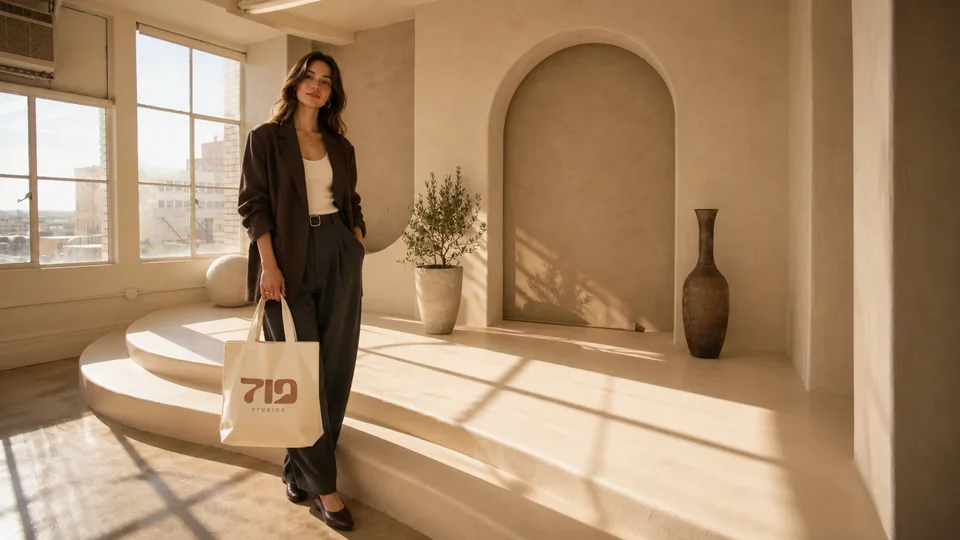
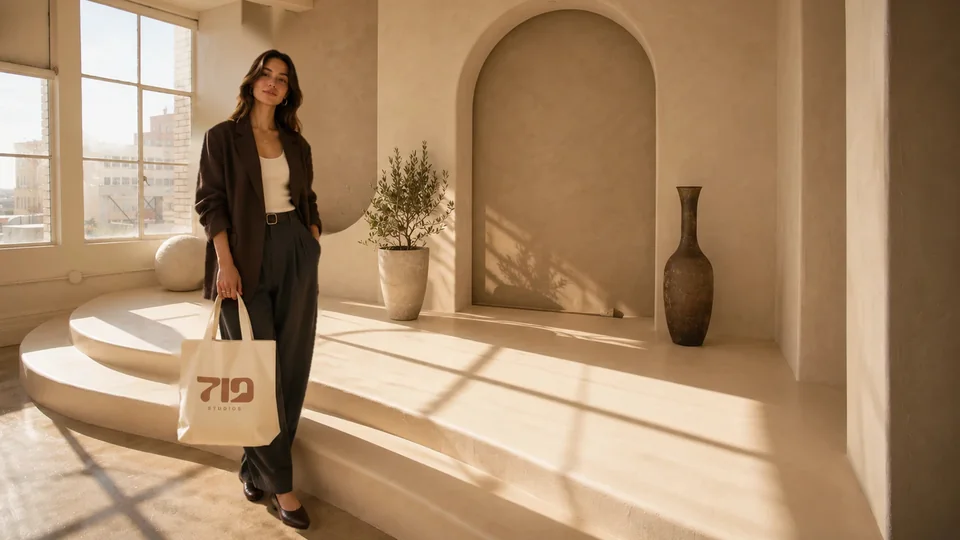
719 Studios: shorter model and tighter crop on the tote slide; page ends on the sunrise
The tote photo: the model is about four inches shorter and the frame is cropped in past the air conditioner.
The ending: a wider gap, then the closing line on a night band with the sunrise behind it, in place of the footer game.

diff --git a/work/719-studios/index.html b/work/719-studios/index.html
@@ -7,7 +7,7 @@
 <title>719 Studios — JCG Studio</title>
 <meta name="description" content="Three production studios in downtown Los Angeles: designed in 3D, built, branded and run for five years.">
 <meta name="theme-color" content="#E9E0D1">
-<link rel="stylesheet" href="../../assets/css/footer-game.css">
+<link rel="stylesheet" href="../../assets/css/dawn.css?v=20261020c">
 <script>document.documentElement.classList.add('js'); if (/[?&]embed\b/.test(location.search)) document.documentElement.classList.add('is-embed');</script>
 <style>
   @font-face { font-family: 'Archivo'; src: url('../../assets/fonts/Archivo-VF.woff2') format('woff2'); font-weight: 400 700; font-stretch: 100% 125%; font-display: swap; }
@@ -38,7 +38,7 @@
   .sr-only { position: absolute !important; width: 1px; height: 1px; padding: 0; margin: -1px; overflow: hidden; clip: rect(0 0 0 0); white-space: nowrap; border: 0; }
   .flap { display: inline-flex; } .flap-ch { position: relative; display: inline-block; width: 1ch; text-align: center; } .flap-ch.is-flip { animation: flap 70ms steps(2, end); }
   .flap-ch.is-flip::after { content: ""; position: absolute; left: 0; right: 0; top: 50%; height: 1px; background: currentColor; opacity: .35; } @keyframes flap { 0% { transform: scaleY(.55); } 100% { transform: none; } }
-  main { padding: 0 max(var(--pad), env(safe-area-inset-right)) 0 max(var(--pad), env(safe-area-inset-left)); }
+  main { padding: 0 max(var(--pad), env(safe-area-inset-right)) clamp(88px, 13vw, 200px) max(var(--pad), env(safe-area-inset-left)); }
   /* the opening: the name as large as the page allows, then the sentence beside the spec panel */
   .open { padding: clamp(28px, 5vw, 76px) 0 clamp(24px, 3vw, 44px); }
   .open h1 { margin: 10px 0 clamp(22px, 3vw, 44px); font: 560 clamp(52px, 12.4vw, 200px)/.9 'Archivo', sans-serif; font-stretch: 118%; letter-spacing: -.045em; }
@@ -53,12 +53,13 @@
   .js [data-reveal] { opacity: 0; transform: translateY(14px); transition: opacity .6s ease, transform .7s cubic-bezier(.2, .7, .2, 1); } .js [data-reveal].in-view { opacity: 1; transform: none; }
   .fine { max-width: 96ch; margin-top: 14px; color: var(--dim); text-transform: none; letter-spacing: .02em; line-height: 1.5; }
   .big { font: 560 clamp(36px, 5.9vw, 96px)/.98 'Archivo', sans-serif; font-stretch: 118%; letter-spacing: -.04em; text-wrap: balance; }
-  .end { display: flex; flex-wrap: wrap; align-items: flex-end; justify-content: space-between; gap: 24px; padding: clamp(56px, 9vw, 130px) 0 clamp(50px, 8vw, 110px); }
-  footer { --bg: #0b0c0e; --ink: #e6e9ed; --dim: #8a919b; --line: rgba(230, 233, 237, .15); --void: var(--bg); --chrome: var(--ink); --chrome-3: var(--dim); --line-strong: rgba(230, 233, 237, .3); --edge: var(--pad); background: var(--bg); color: var(--dim); color-scheme: dark; }
-  .foot-row { display: flex; flex-wrap: wrap; align-items: center; justify-content: space-between; gap: 8px 24px; padding: 16px var(--pad); } footer a { color: var(--ink); } footer a:hover { color: var(--signal); }
+  /* the ending is night: the closing line, the sun rising behind it (dawn.css sets the band's height and padding), then the footer row */
+  .end-in { display: flex; flex-wrap: wrap; align-items: flex-end; justify-content: space-between; gap: 24px; padding: 0 max(var(--pad), env(safe-area-inset-right)) 0 max(var(--pad), env(safe-area-inset-left)); }
+  .end, footer { --bg: #0b0c0e; --ink: #e6e9ed; --dim: #8a919b; --line: rgba(230, 233, 237, .15); --void: var(--bg); --chrome: var(--ink); --chrome-3: var(--dim); --line-strong: rgba(230, 233, 237, .3); --edge: var(--pad); background: var(--bg); color: var(--dim); color-scheme: dark; }
+  .end { color: var(--ink); }
+  .foot-row { display: flex; flex-wrap: wrap; align-items: center; justify-content: space-between; gap: 8px 24px; padding: 16px var(--pad) calc(16px + env(safe-area-inset-bottom)); } footer a { color: var(--ink); } footer a:hover { color: var(--signal); }
   /* inside the home page's case-study panel (?embed) the page shows without its own bar, closing line and footer */
   .is-embed .top, .is-embed .end, .is-embed footer { display: none; }
-  .foot-game canvas { padding-bottom: env(safe-area-inset-bottom); }
   @media (min-width: 800px) { .links { display: flex; } .open-row { grid-template-columns: minmax(0, 1fr) minmax(320px, 38%); } .c6 { grid-column: span 6; } .c4 { grid-column: span 4; } }
   @media (prefers-reduced-motion: reduce) { .js [data-reveal] { opacity: 1; transform: none; transition: none; } .btn.ticks::before { transition: none; } }
 </style>
@@ -84,32 +85,33 @@
     </div>
   </section>
   <div class="g">
-    <figure class="cell c12" data-reveal role="img" aria-label="The 719 Studios logo set inside the orange circle of the Etherea room"><img src="../../assets/img/work/719/deck/figma/04-etherea-1920.webp?v=20261116j" srcset="../../assets/img/work/719/deck/figma/04-etherea-960.webp?v=20261116j 960w, ../../assets/img/work/719/deck/figma/04-etherea-1920.webp?v=20261116j 1920w" sizes="100vw" width="1920" height="1080" alt="" decoding="async"></figure>
-    <figure class="cell c12" data-reveal role="img" aria-label="The five brand colours with their names and values: Umber, Clay, Blush, Sand and Birch"><img src="../../assets/img/work/719/deck/figma/02-palette-1920.webp?v=20261116j" srcset="../../assets/img/work/719/deck/figma/02-palette-960.webp?v=20261116j 960w, ../../assets/img/work/719/deck/figma/02-palette-1920.webp?v=20261116j 1920w" sizes="100vw" width="1920" height="1080" alt="" loading="lazy" decoding="async"></figure>
-    <figure class="cell c6" data-reveal role="img" aria-label="The 719 Studios logo in clay on a pale birch ground"><img src="../../assets/img/work/719/deck/figma/01-logo-1920.webp?v=20261116j" srcset="../../assets/img/work/719/deck/figma/01-logo-960.webp?v=20261116j 960w, ../../assets/img/work/719/deck/figma/01-logo-1920.webp?v=20261116j 1920w" sizes="(max-width: 799px) 100vw, 50vw" width="1920" height="1080" alt="" loading="lazy" decoding="async"></figure>
-    <figure class="cell c6" data-reveal role="img" aria-label="The typeface Bricolage Grotesque in three weights, with the three studio taglines"><img src="../../assets/img/work/719/deck/figma/03-type-1920.webp?v=20261116j" srcset="../../assets/img/work/719/deck/figma/03-type-960.webp?v=20261116j 960w, ../../assets/img/work/719/deck/figma/03-type-1920.webp?v=20261116j 1920w" sizes="(max-width: 799px) 100vw, 50vw" width="1920" height="1080" alt="" loading="lazy" decoding="async"></figure>
-    <figure class="cell c4 tall" data-reveal role="img" aria-label="The Etherea poster: its room through a circle, with the line A little otherworldly"><img src="../../assets/img/work/719/deck/figma/05-poster-etherea-880.webp?v=20261116j" srcset="../../assets/img/work/719/deck/figma/05-poster-etherea-440.webp?v=20261116j 440w, ../../assets/img/work/719/deck/figma/05-poster-etherea-880.webp?v=20261116j 880w, ../../assets/img/work/719/deck/figma/05-poster-etherea-1180.webp?v=20261116j 1180w" sizes="(max-width: 799px) 100vw, 33vw" width="1468" height="2202" alt="" loading="lazy" decoding="async"></figure>
-    <figure class="cell c4 tall" data-reveal role="img" aria-label="The Terra poster: its room through an upside-down arch, with the line Find your own angle"><img src="../../assets/img/work/719/deck/figma/05-poster-terra-880.webp?v=20261116j" srcset="../../assets/img/work/719/deck/figma/05-poster-terra-440.webp?v=20261116j 440w, ../../assets/img/work/719/deck/figma/05-poster-terra-880.webp?v=20261116j 880w, ../../assets/img/work/719/deck/figma/05-poster-terra-1180.webp?v=20261116j 1180w" sizes="(max-width: 799px) 100vw, 33vw" width="1468" height="2202" alt="" loading="lazy" decoding="async"></figure>
-    <figure class="cell c4 tall" data-reveal role="img" aria-label="The Solaris poster: its room through an arch, with the line Let the light in"><img src="../../assets/img/work/719/deck/figma/05-poster-solaris-880.webp?v=20261116j" srcset="../../assets/img/work/719/deck/figma/05-poster-solaris-440.webp?v=20261116j 440w, ../../assets/img/work/719/deck/figma/05-poster-solaris-880.webp?v=20261116j 880w, ../../assets/img/work/719/deck/figma/05-poster-solaris-1180.webp?v=20261116j 1180w" sizes="(max-width: 799px) 100vw, 33vw" width="1468" height="2202" alt="" loading="lazy" decoding="async"></figure>
-    <figure class="cell c12" data-reveal role="img" aria-label="Four figures over a photo taken at Etherea: 1,000+ reviews, 5.0 average rating, No. 9 on Peerspace in Los Angeles in 2023, 3.2M timelapse views"><img src="../../assets/img/work/719/deck/figma/06-numbers-1920.webp?v=20261116j" srcset="../../assets/img/work/719/deck/figma/06-numbers-960.webp?v=20261116j 960w, ../../assets/img/work/719/deck/figma/06-numbers-1920.webp?v=20261116j 1920w" sizes="100vw" width="1920" height="1080" alt="" loading="lazy" decoding="async"></figure>
-    <figure class="cell c6" data-reveal role="img" aria-label="The 719 Studios logo over the empty Terra room"><img src="../../assets/img/work/719/deck/figma/07-terra-1920.webp?v=20261116j" srcset="../../assets/img/work/719/deck/figma/07-terra-960.webp?v=20261116j 960w, ../../assets/img/work/719/deck/figma/07-terra-1920.webp?v=20261116j 1920w" sizes="(max-width: 799px) 100vw, 50vw" width="1920" height="1080" alt="" loading="lazy" decoding="async"></figure>
-    <figure class="cell c6" data-reveal role="img" aria-label="Two oversized studio shapes with a circle between them holding the logo"><img src="../../assets/img/work/719/deck/figma/09-pattern-shapes-1920.webp?v=20261116j" srcset="../../assets/img/work/719/deck/figma/09-pattern-shapes-960.webp?v=20261116j 960w, ../../assets/img/work/719/deck/figma/09-pattern-shapes-1920.webp?v=20261116j 1920w" sizes="(max-width: 799px) 100vw, 50vw" width="1920" height="1080" alt="" loading="lazy" decoding="async"></figure>
-    <figure class="cell c12" data-reveal role="img" aria-label="A concept ad banner with the line Room to make and three photos seen through the studio shapes"><img src="../../assets/img/work/719/deck/figma/10-ad-1920.webp?v=20261116j" srcset="../../assets/img/work/719/deck/figma/10-ad-960.webp?v=20261116j 960w, ../../assets/img/work/719/deck/figma/10-ad-1920.webp?v=20261116j 1920w" sizes="100vw" width="1920" height="1080" alt="" loading="lazy" decoding="async"></figure>
-    <figure class="cell c6" data-reveal role="img" aria-label="A concept email signature with the three studio shapes and the logo"><img src="../../assets/img/work/719/deck/figma/11-email-1920.webp?v=20261116j" srcset="../../assets/img/work/719/deck/figma/11-email-960.webp?v=20261116j 960w, ../../assets/img/work/719/deck/figma/11-email-1920.webp?v=20261116j 1920w" sizes="(max-width: 799px) 100vw, 50vw" width="1920" height="1080" alt="" loading="lazy" decoding="async"></figure>
-    <figure class="cell c6" data-reveal role="img" aria-label="A concept website header with the line Room to make and a large circular photo"><img src="../../assets/img/work/719/deck/figma/12-website-1920.webp?v=20261116j" srcset="../../assets/img/work/719/deck/figma/12-website-960.webp?v=20261116j 960w, ../../assets/img/work/719/deck/figma/12-website-1920.webp?v=20261116j 1920w" sizes="(max-width: 799px) 100vw, 50vw" width="1920" height="1080" alt="" loading="lazy" decoding="async"></figure>
-    <figure class="cell c6" data-reveal role="img" aria-label="A concept T-shirt in clay with the three studio shapes on the back, worn in a room like Solaris"><img src="../../assets/img/work/719/deck/figma/13-shirt-1920.webp?v=20261116j" srcset="../../assets/img/work/719/deck/figma/13-shirt-960.webp?v=20261116j 960w, ../../assets/img/work/719/deck/figma/13-shirt-1920.webp?v=20261116j 1920w" sizes="(max-width: 799px) 100vw, 50vw" width="1920" height="1080" alt="" loading="lazy" decoding="async"></figure>
-    <figure class="cell c6" data-reveal role="img" aria-label="A concept canvas tote bag with the logo, carried in a room like Terra"><img src="../../assets/img/work/719/deck/figma/14-tote-1920.webp?v=20261116j" srcset="../../assets/img/work/719/deck/figma/14-tote-960.webp?v=20261116j 960w, ../../assets/img/work/719/deck/figma/14-tote-1920.webp?v=20261116j 1920w" sizes="(max-width: 799px) 100vw, 50vw" width="1920" height="1080" alt="" loading="lazy" decoding="async"></figure>
+    <figure class="cell c12" data-reveal role="img" aria-label="The 719 Studios logo set inside the orange circle of the Etherea room"><img src="../../assets/img/work/719/deck/figma/04-etherea-1920.webp?v=20261117a" srcset="../../assets/img/work/719/deck/figma/04-etherea-960.webp?v=20261117a 960w, ../../assets/img/work/719/deck/figma/04-etherea-1920.webp?v=20261117a 1920w" sizes="100vw" width="1920" height="1080" alt="" decoding="async"></figure>
+    <figure class="cell c12" data-reveal role="img" aria-label="The five brand colours with their names and values: Umber, Clay, Blush, Sand and Birch"><img src="../../assets/img/work/719/deck/figma/02-palette-1920.webp?v=20261117a" srcset="../../assets/img/work/719/deck/figma/02-palette-960.webp?v=20261117a 960w, ../../assets/img/work/719/deck/figma/02-palette-1920.webp?v=20261117a 1920w" sizes="100vw" width="1920" height="1080" alt="" loading="lazy" decoding="async"></figure>
+    <figure class="cell c6" data-reveal role="img" aria-label="The 719 Studios logo in clay on a pale birch ground"><img src="../../assets/img/work/719/deck/figma/01-logo-1920.webp?v=20261117a" srcset="../../assets/img/work/719/deck/figma/01-logo-960.webp?v=20261117a 960w, ../../assets/img/work/719/deck/figma/01-logo-1920.webp?v=20261117a 1920w" sizes="(max-width: 799px) 100vw, 50vw" width="1920" height="1080" alt="" loading="lazy" decoding="async"></figure>
+    <figure class="cell c6" data-reveal role="img" aria-label="The typeface Bricolage Grotesque in three weights, with the three studio taglines"><img src="../../assets/img/work/719/deck/figma/03-type-1920.webp?v=20261117a" srcset="../../assets/img/work/719/deck/figma/03-type-960.webp?v=20261117a 960w, ../../assets/img/work/719/deck/figma/03-type-1920.webp?v=20261117a 1920w" sizes="(max-width: 799px) 100vw, 50vw" width="1920" height="1080" alt="" loading="lazy" decoding="async"></figure>
+    <figure class="cell c4 tall" data-reveal role="img" aria-label="The Etherea poster: its room through a circle, with the line A little otherworldly"><img src="../../assets/img/work/719/deck/figma/05-poster-etherea-880.webp?v=20261117a" srcset="../../assets/img/work/719/deck/figma/05-poster-etherea-440.webp?v=20261117a 440w, ../../assets/img/work/719/deck/figma/05-poster-etherea-880.webp?v=20261117a 880w, ../../assets/img/work/719/deck/figma/05-poster-etherea-1180.webp?v=20261117a 1180w" sizes="(max-width: 799px) 100vw, 33vw" width="1468" height="2202" alt="" loading="lazy" decoding="async"></figure>
+    <figure class="cell c4 tall" data-reveal role="img" aria-label="The Terra poster: its room through an upside-down arch, with the line Find your own angle"><img src="../../assets/img/work/719/deck/figma/05-poster-terra-880.webp?v=20261117a" srcset="../../assets/img/work/719/deck/figma/05-poster-terra-440.webp?v=20261117a 440w, ../../assets/img/work/719/deck/figma/05-poster-terra-880.webp?v=20261117a 880w, ../../assets/img/work/719/deck/figma/05-poster-terra-1180.webp?v=20261117a 1180w" sizes="(max-width: 799px) 100vw, 33vw" width="1468" height="2202" alt="" loading="lazy" decoding="async"></figure>
+    <figure class="cell c4 tall" data-reveal role="img" aria-label="The Solaris poster: its room through an arch, with the line Let the light in"><img src="../../assets/img/work/719/deck/figma/05-poster-solaris-880.webp?v=20261117a" srcset="../../assets/img/work/719/deck/figma/05-poster-solaris-440.webp?v=20261117a 440w, ../../assets/img/work/719/deck/figma/05-poster-solaris-880.webp?v=20261117a 880w, ../../assets/img/work/719/deck/figma/05-poster-solaris-1180.webp?v=20261117a 1180w" sizes="(max-width: 799px) 100vw, 33vw" width="1468" height="2202" alt="" loading="lazy" decoding="async"></figure>
+    <figure class="cell c12" data-reveal role="img" aria-label="Four figures over a photo taken at Etherea: 1,000+ reviews, 5.0 average rating, No. 9 on Peerspace in Los Angeles in 2023, 3.2M timelapse views"><img src="../../assets/img/work/719/deck/figma/06-numbers-1920.webp?v=20261117a" srcset="../../assets/img/work/719/deck/figma/06-numbers-960.webp?v=20261117a 960w, ../../assets/img/work/719/deck/figma/06-numbers-1920.webp?v=20261117a 1920w" sizes="100vw" width="1920" height="1080" alt="" loading="lazy" decoding="async"></figure>
+    <figure class="cell c6" data-reveal role="img" aria-label="The 719 Studios logo over the empty Terra room"><img src="../../assets/img/work/719/deck/figma/07-terra-1920.webp?v=20261117a" srcset="../../assets/img/work/719/deck/figma/07-terra-960.webp?v=20261117a 960w, ../../assets/img/work/719/deck/figma/07-terra-1920.webp?v=20261117a 1920w" sizes="(max-width: 799px) 100vw, 50vw" width="1920" height="1080" alt="" loading="lazy" decoding="async"></figure>
+    <figure class="cell c6" data-reveal role="img" aria-label="Two oversized studio shapes with a circle between them holding the logo"><img src="../../assets/img/work/719/deck/figma/09-pattern-shapes-1920.webp?v=20261117a" srcset="../../assets/img/work/719/deck/figma/09-pattern-shapes-960.webp?v=20261117a 960w, ../../assets/img/work/719/deck/figma/09-pattern-shapes-1920.webp?v=20261117a 1920w" sizes="(max-width: 799px) 100vw, 50vw" width="1920" height="1080" alt="" loading="lazy" decoding="async"></figure>
+    <figure class="cell c12" data-reveal role="img" aria-label="A concept ad banner with the line Room to make and three photos seen through the studio shapes"><img src="../../assets/img/work/719/deck/figma/10-ad-1920.webp?v=20261117a" srcset="../../assets/img/work/719/deck/figma/10-ad-960.webp?v=20261117a 960w, ../../assets/img/work/719/deck/figma/10-ad-1920.webp?v=20261117a 1920w" sizes="100vw" width="1920" height="1080" alt="" loading="lazy" decoding="async"></figure>
+    <figure class="cell c6" data-reveal role="img" aria-label="A concept email signature with the three studio shapes and the logo"><img src="../../assets/img/work/719/deck/figma/11-email-1920.webp?v=20261117a" srcset="../../assets/img/work/719/deck/figma/11-email-960.webp?v=20261117a 960w, ../../assets/img/work/719/deck/figma/11-email-1920.webp?v=20261117a 1920w" sizes="(max-width: 799px) 100vw, 50vw" width="1920" height="1080" alt="" loading="lazy" decoding="async"></figure>
+    <figure class="cell c6" data-reveal role="img" aria-label="A concept website header with the line Room to make and a large circular photo"><img src="../../assets/img/work/719/deck/figma/12-website-1920.webp?v=20261117a" srcset="../../assets/img/work/719/deck/figma/12-website-960.webp?v=20261117a 960w, ../../assets/img/work/719/deck/figma/12-website-1920.webp?v=20261117a 1920w" sizes="(max-width: 799px) 100vw, 50vw" width="1920" height="1080" alt="" loading="lazy" decoding="async"></figure>
+    <figure class="cell c6" data-reveal role="img" aria-label="A concept T-shirt in clay with the three studio shapes on the back, worn in a room like Solaris"><img src="../../assets/img/work/719/deck/figma/13-shirt-1920.webp?v=20261117a" srcset="../../assets/img/work/719/deck/figma/13-shirt-960.webp?v=20261117a 960w, ../../assets/img/work/719/deck/figma/13-shirt-1920.webp?v=20261117a 1920w" sizes="(max-width: 799px) 100vw, 50vw" width="1920" height="1080" alt="" loading="lazy" decoding="async"></figure>
+    <figure class="cell c6" data-reveal role="img" aria-label="A concept canvas tote bag with the logo, carried in a room like Terra"><img src="../../assets/img/work/719/deck/figma/14-tote-1920.webp?v=20261117a" srcset="../../assets/img/work/719/deck/figma/14-tote-960.webp?v=20261117a 960w, ../../assets/img/work/719/deck/figma/14-tote-1920.webp?v=20261117a 1920w" sizes="(max-width: 799px) 100vw, 50vw" width="1920" height="1080" alt="" loading="lazy" decoding="async"></figure>
   </div>
   <p class="hud fine">The three studios, room photos, reviews, award and timelapse views are real. Website, ad, email signature, T-shirt and tote bag are unproduced concepts; both pictures of people are AI-generated.</p>
-  <div class="end"><p class="big">Tell me what you’re working on.</p><a class="btn hud ticks" data-flap href="mailto:hello@jcg.studio"><span class="flap">Work with me</span> <span class="arr" aria-hidden="true">→</span></a></div>
 </main>
+<section class="dawn dawn-close end" data-dawn data-rise="scroll" data-x=".5" aria-label="Work with me">
+  <div class="end-in"><p class="big">Tell me what you’re working on.</p><a class="btn hud ticks" data-flap href="mailto:hello@jcg.studio"><span class="flap">Work with me</span> <span class="arr" aria-hidden="true">→</span></a></div>
+</section>
 <footer class="hud">
   <div class="foot-row"><a href="mailto:hello@jcg.studio">hello@jcg.studio</a><span>By JCG Studio · Colorado Springs</span><span>2026</span></div>
-  <div class="foot-game" data-footer-game data-wall="WORK"></div>
 </footer>
 <script type="module">
   import { initSplitFlap } from '../../assets/js/splitflap.js'; initSplitFlap();
-  if (!document.documentElement.classList.contains('is-embed')) import('../../assets/js/footer-game.js');
+  if (!document.documentElement.classList.contains('is-embed')) import('../../assets/js/dawn.js?v=20261020c');
 </script>
 <script>
 (() => { const io = new IntersectionObserver((es) => es.forEach((e) => { if (e.isIntersecting) { e.target.classList.add('in-view'); io.unobserve(e.target); } }), { rootMargin: '0px 0px -6% 0px' }); document.querySelectorAll('[data-reveal]').forEach((el) => io.observe(el)); })();
